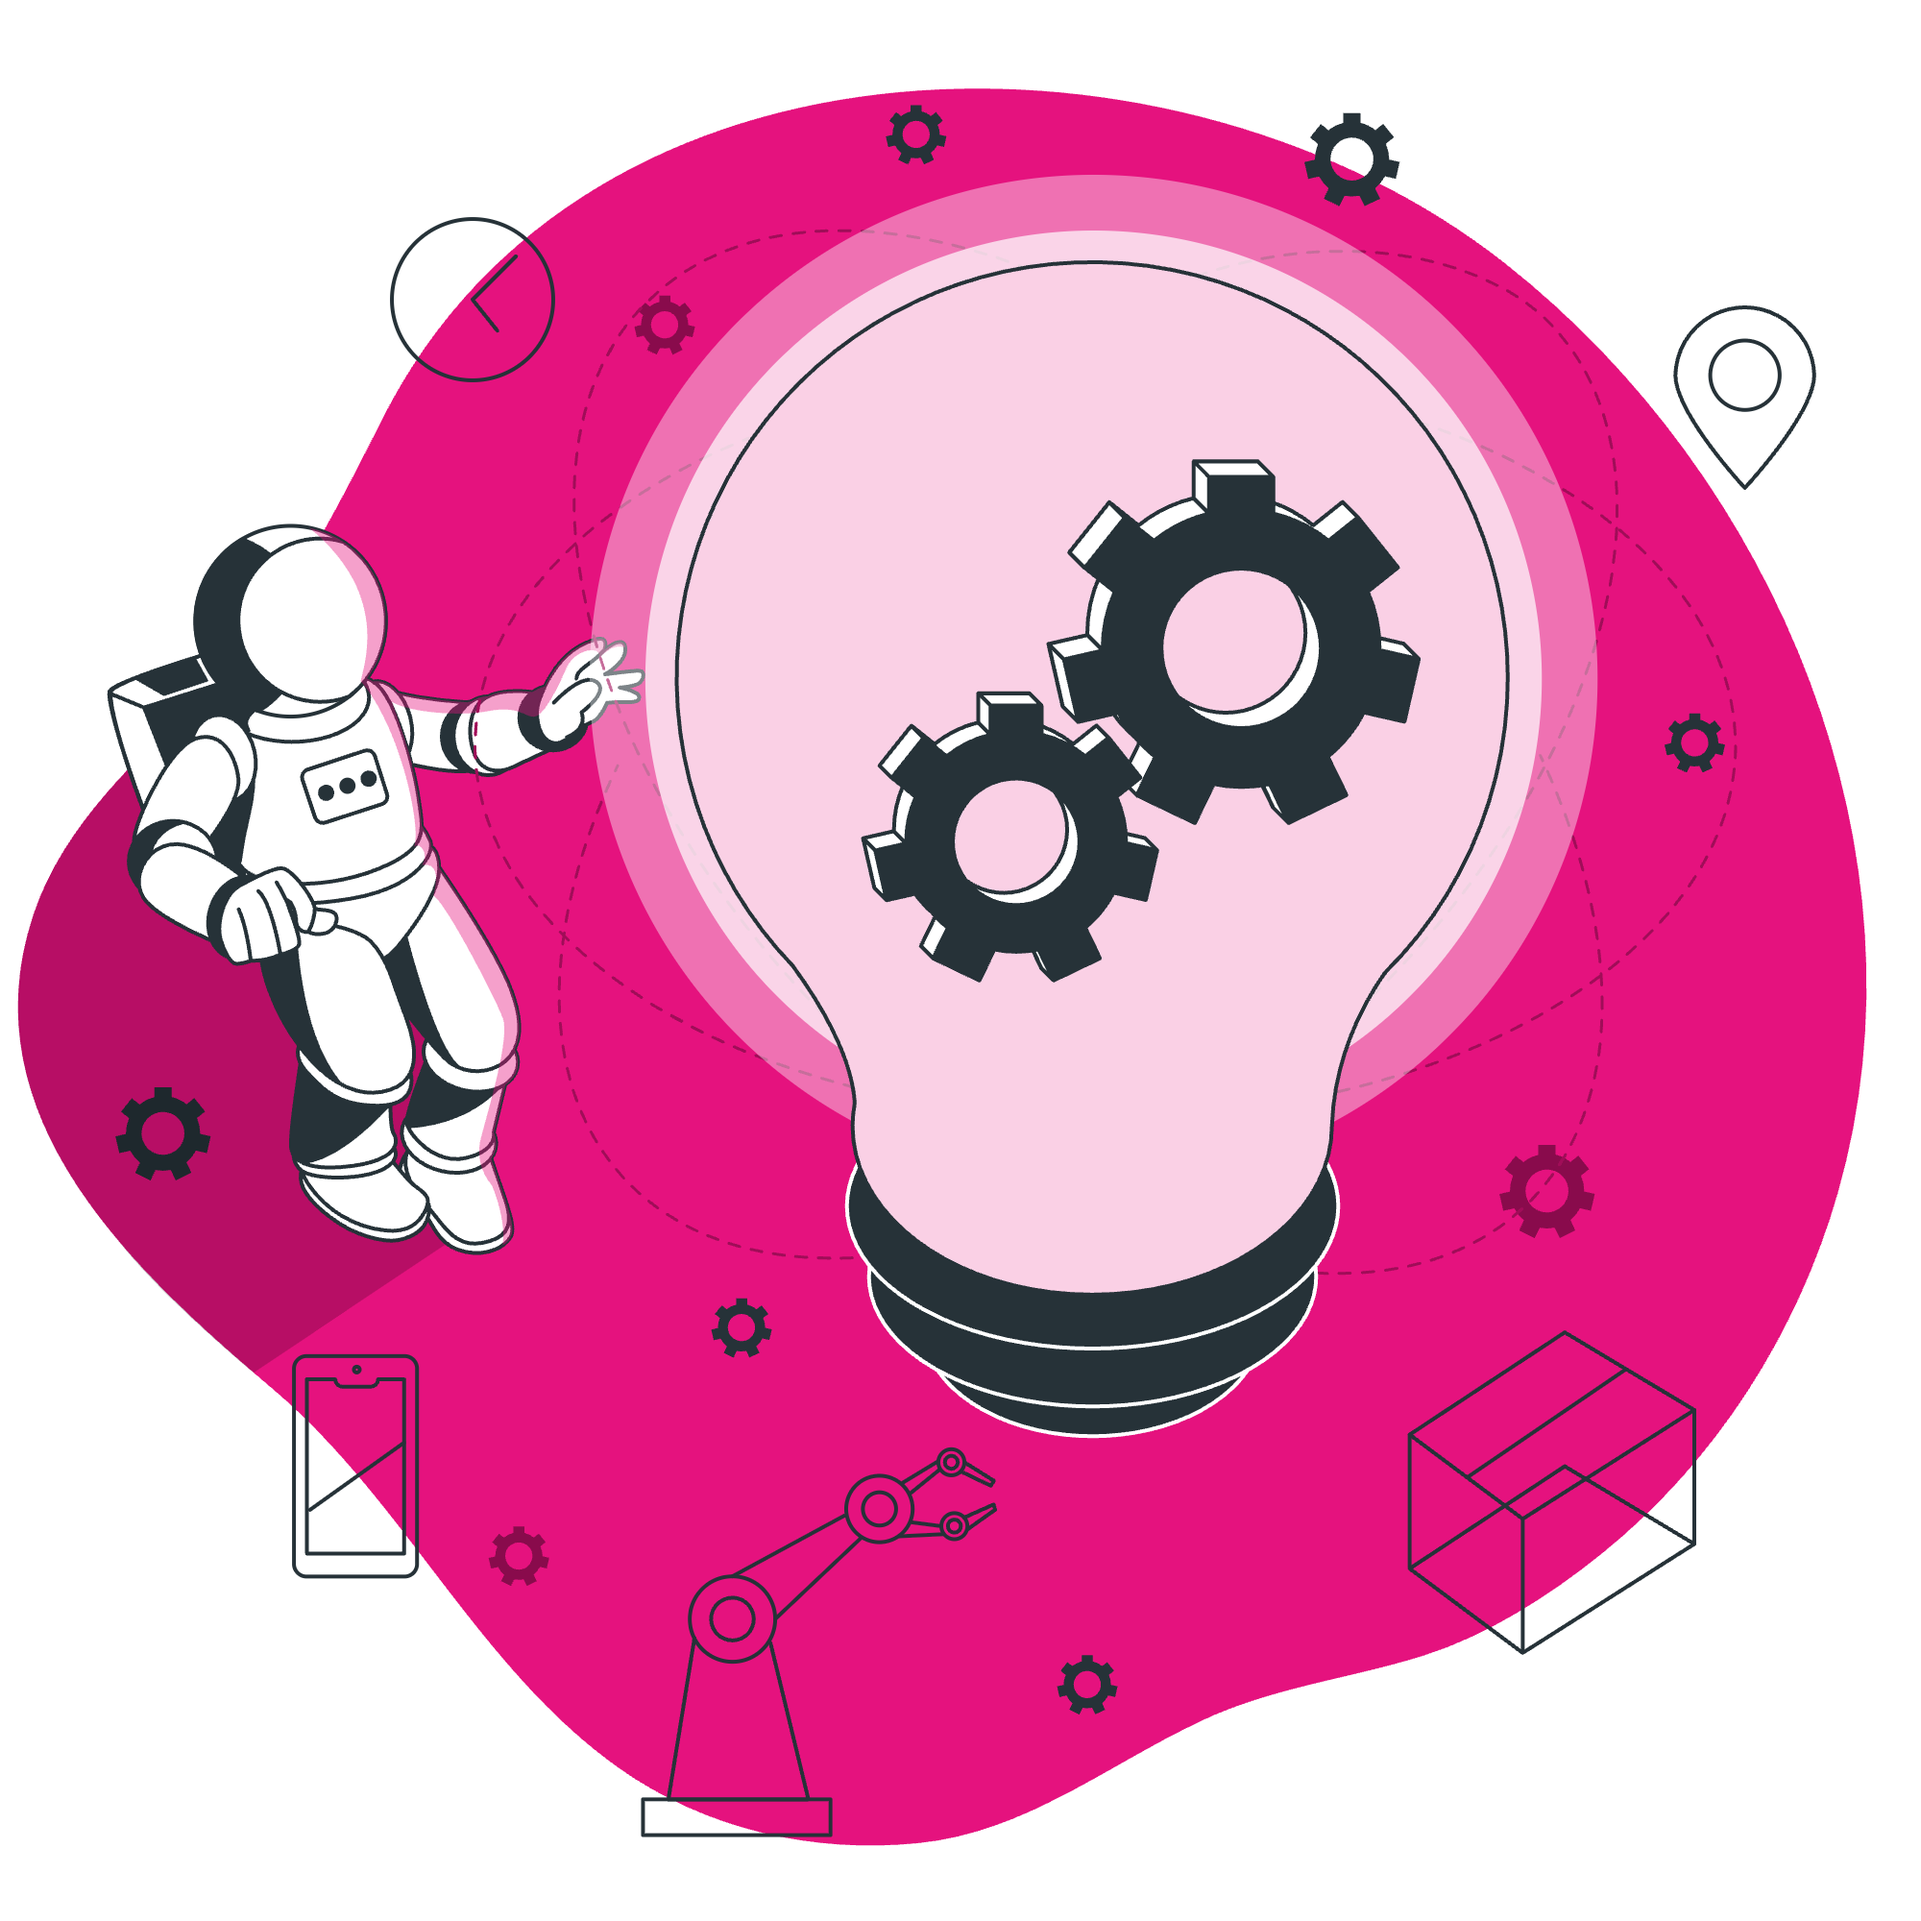
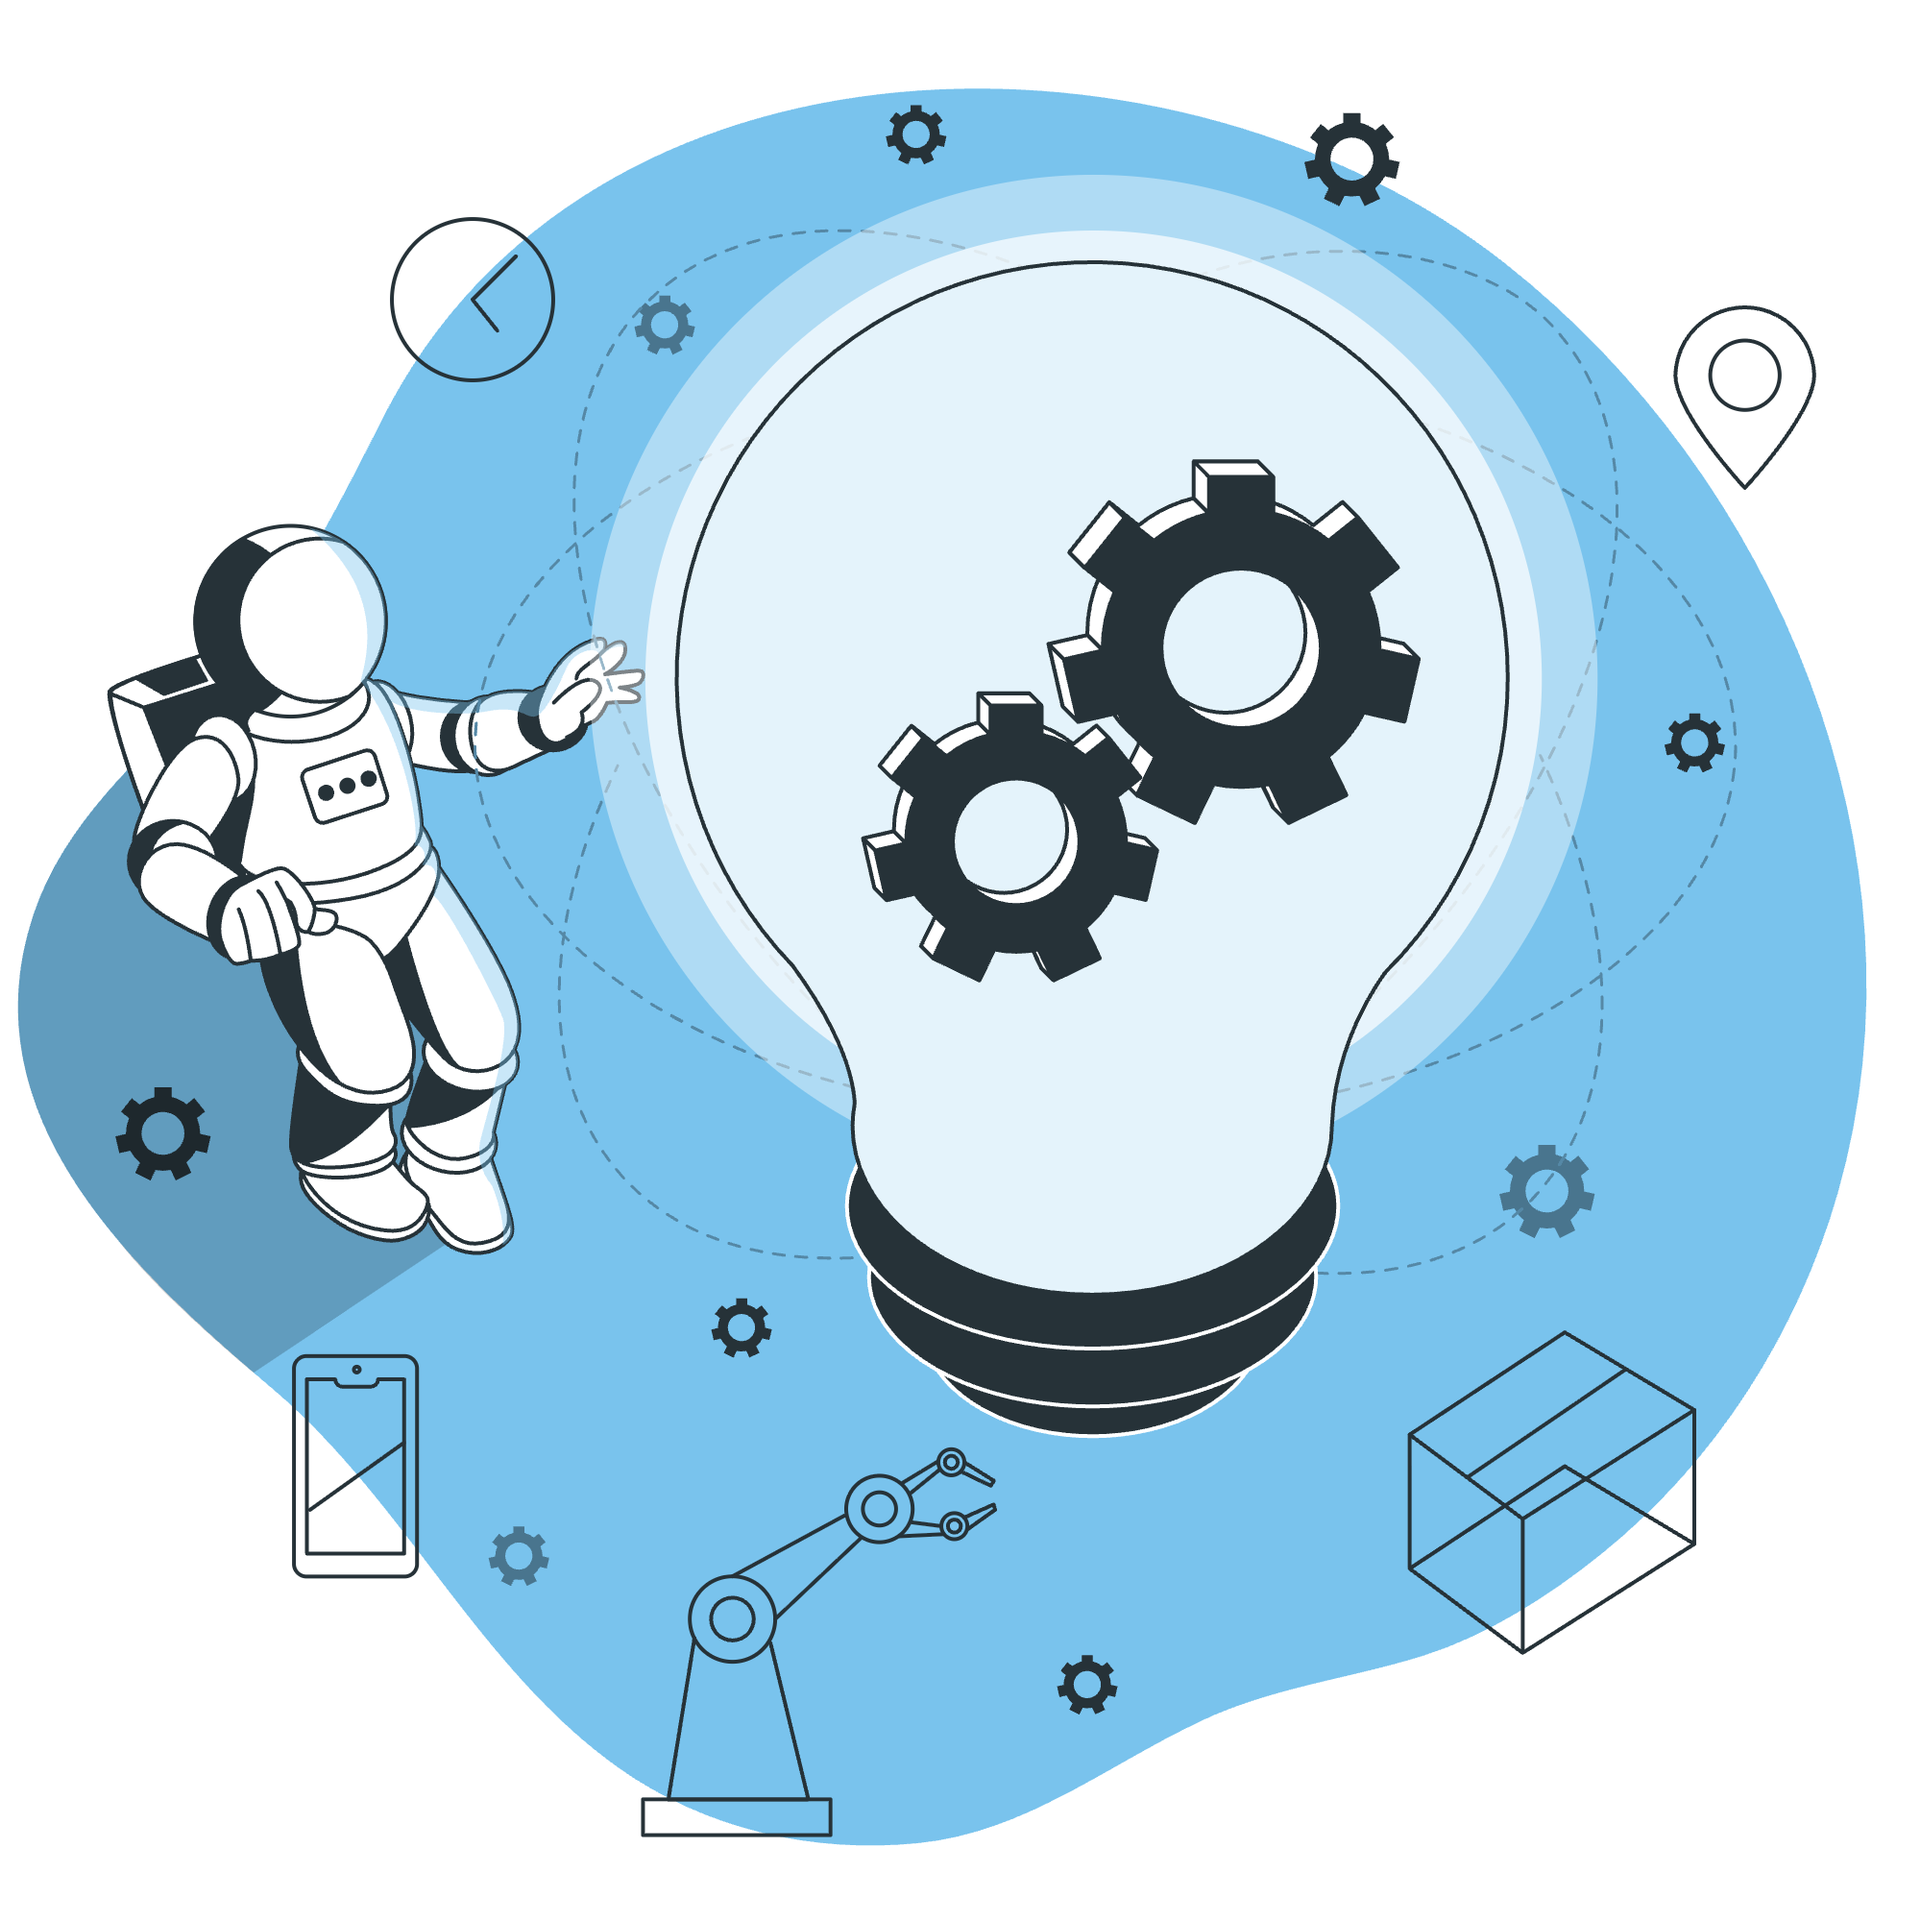
add: update color

diff --git a/assets/css/custom.css b/assets/css/custom.css
@@ -9,6 +9,7 @@
 h1, h2, h3, h4, h5, h6,
 .hextra-content h1{
   font-family: 'Bricolage Grotesque', sans-serif !important;
+  color: #263238 !important;
 }
 .hextra-content h2 {
   font-family: 'Bricolage Grotesque', sans-serif !important;

diff --git a/content/_index.md b/content/_index.md
@@ -37,7 +37,7 @@ width: wide
     link="en-savoir-plus"
     image="img/cdc-illustration-decouvrir.png"
     imageClass="hx:top-[20%] hx:left-[24px] hx:w-[90%] hx:sm:w-[110%] hx:dark:opacity-80"
-    style="background: radial-gradient(ellipse at 50% 80%,rgba(254, 97, 217, 0.15),hsla(0,0%,100%,0));"
+    style="background: radial-gradient(ellipse at 50% 80%,rgba(97, 196, 254, 0.15),hsla(0,0%,100%,0));"
   >}}
   {{< hextra/feature-card
     title="Documentation"
